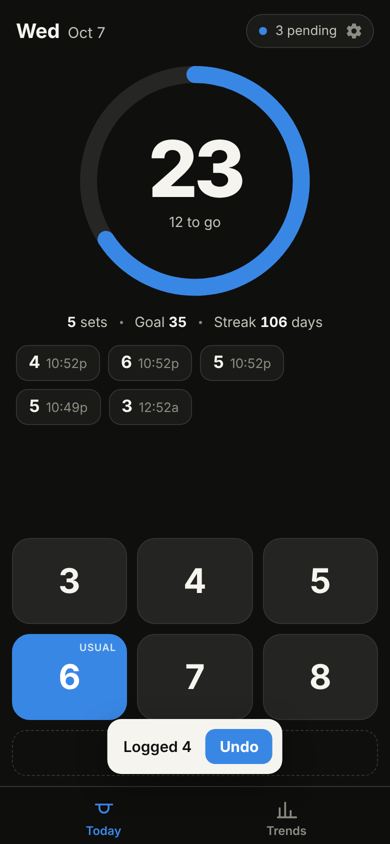
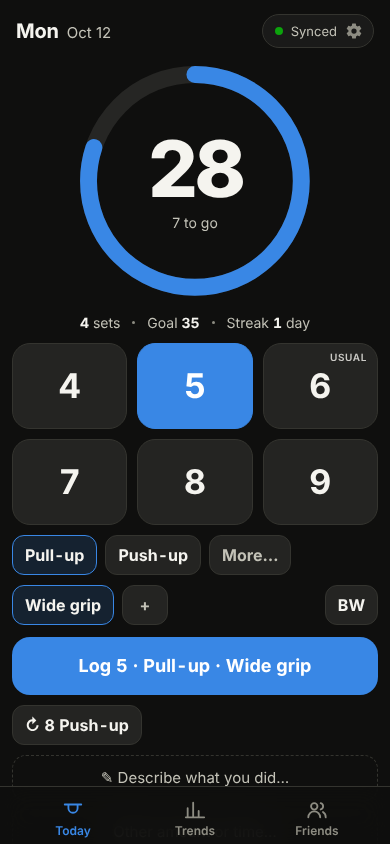
Refresh the Today screenshot for the new pad
Also builds the Log template from the context's exercise and
configuration only, so no amount from a queue item rides along.

Claude-Session: https://claude.ai/code/session_01MxzHHvBU39VeeGVRN57VoT

diff --git a/src/app/Today.tsx b/src/app/Today.tsx
@@ -102,7 +102,7 @@ export function Today({ tracker, stats, now, timeZone, onLogged, onEdit, onOpenC
     haptic(14);
     setPressedAmount(amount);
     setTimeout(() => setPressedAmount(null), 260);
-    const template: SetTemplate = { ...context, addedWeightLbs };
+    const template: SetTemplate = { exerciseId: context.exerciseId, variationIds: context.variationIds, addedWeightLbs };
     if (isTimed) template.holdSeconds = amount;
     else template.reps = amount;
     onLogged(tracker.logTemplate(template));

diff --git a/README.md b/README.md
@@ -5,7 +5,7 @@ did; the day's total updates instantly and syncs in the background. Daily totals
 trends live one tab over.
 
 <p>
-  <img src="docs/today.png" width="200" alt="Today: ring with today's total, set chips, quick-add pad">
+  <img src="docs/today.png" width="200" alt="Today: ring with today's total, then the pad: an amount, the exercise, its configuration, Log, and Repeat">
   <img src="docs/edit.png" width="200" alt="Editing a set">
   <img src="docs/trends.png" width="200" alt="Trends: stat tiles and 30-day chart">
   <img src="docs/offline.png" width="200" alt="Offline: tap still counts, queued for sync">
